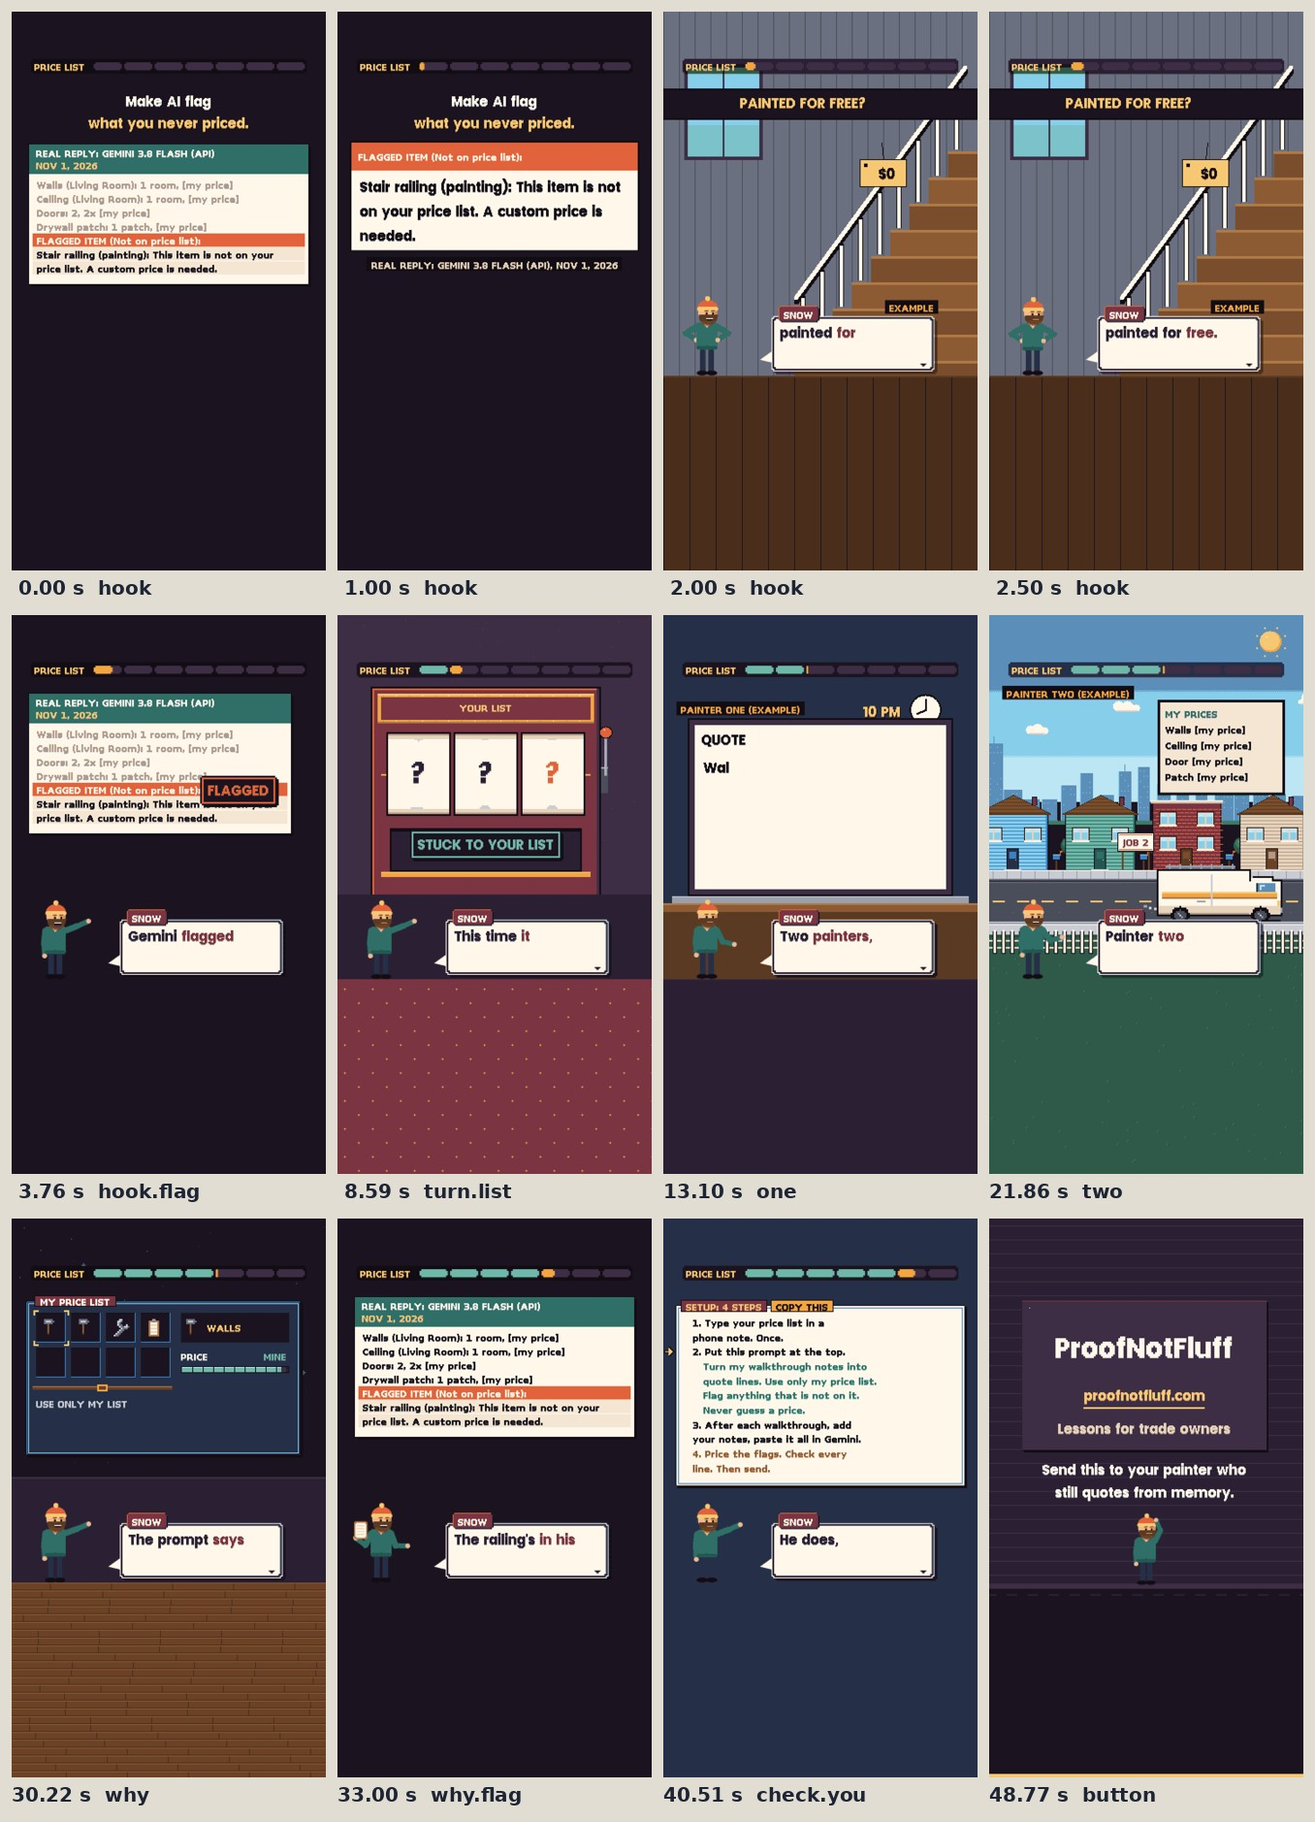
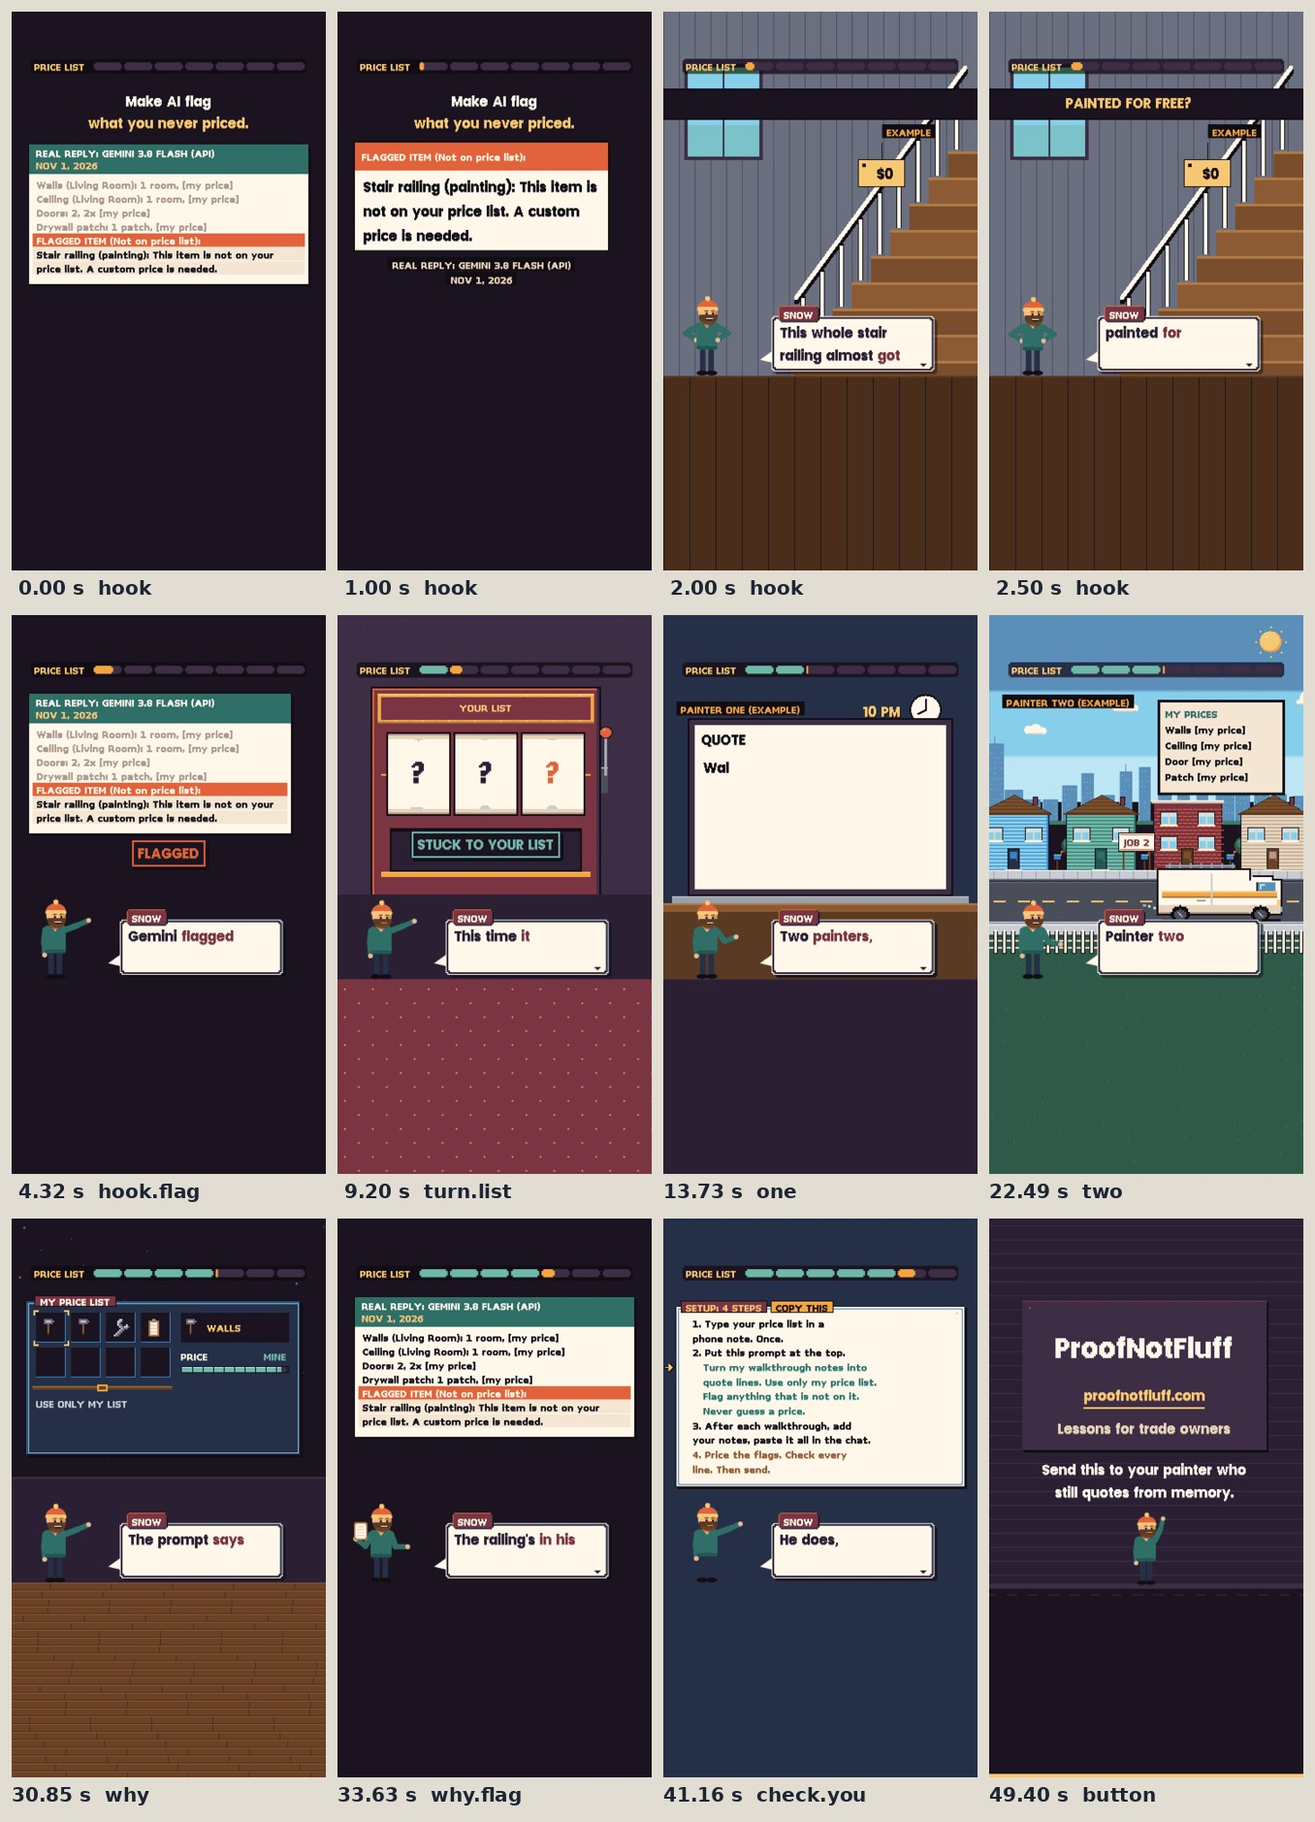
studio: price-list-quote re-roll takes 2, 4, 6 (Whisper flags: plainer words); close-up never frozen; IMPROVE 00a-4 verdict kick (in progress)
Claude-Session: https://claude.ai/code/session_01XMn4eLpC7YkvqSvTxShjqD

diff --git a/video/studio/videos/2026-11-16-price-list-quote/03_cues/cues.js b/video/studio/videos/2026-11-16-price-list-quote/03_cues/cues.js
@@ -1,1 +1,1 @@
-window.CUES = {"schema": "pnf.studio.cues.v1", "source": "whisper medium.en int8, re-spelled from script.md", "music": {"id": "rooms", "level": 0.16, "tune": "quest"}, "duration": 49.069, "cues": [{"id": "hook", "level": 0, "quote": "This stair railing almost", "sfx": "pop", "shift": 0.0, "pin": null, "text": "Three shots. Cover, frame one, no host: the real reply card, \"REAL REPLY: GEMINI 3.8 FLASH (API)\", \"NOV 1, 2026\", the four quote lines and the railing line lit red; plate \"Make AI flag / what you never priced.\". On \"railing\" cut in close on the flagged line, big. On \"painted\" cut to the living room: the stair railing, a brush, a price tag reading $0 swinging; \"PAINTED FOR FREE?\"; Snow comes in.", "t": 0.0, "word": 0, "end": 5.571}, {"id": "hook.flag", "level": 1, "quote": "Gemini flagged it instead", "sfx": "stamp", "shift": 0.0, "pin": null, "text": "Back to the reply card; FLAGGED stamps on the railing line; \"NO PRICE GUESSED\" under it.", "t": 3.16, "word": 8, "end": 5.571}, {"id": "turn", "level": 0, "quote": "You'd think AI makes", "sfx": "whoosh", "shift": 0.0, "pin": null, "text": "The slot machine: AI PRICES, reels spinning question marks.", "t": 5.571, "word": 14, "end": 12.5}, {"id": "turn.list", "level": 1, "quote": "This time it stuck", "sfx": "chime", "shift": 0.0, "pin": null, "text": "The reels stop left to right on L, I, S, T; label \"IT STUCK TO YOUR LIST\".", "t": 7.991, "word": 20, "end": 10.071}, {"id": "turn.loop", "level": 1, "quote": "So what happens to", "sfx": "blip", "shift": 0.0, "pin": null, "text": "\"What happens to / the railing?\" lands in the crown.", "t": 10.071, "word": 27, "end": 12.5}, {"id": "one", "level": 0, "quote": "Two painters, same walkthrough.", "sfx": "whoosh", "shift": 0.0, "pin": null, "text": "Painter one's kitchen table at night (EXAMPLE): clock 10 PM, a laptop, the quote typing from memory: Walls, Ceiling, Doors, Patch. No railing.", "t": 12.5, "word": 33, "end": 21.258}, {"id": "one.free", "level": 1, "quote": "He paints it free.", "sfx": "stamp", "shift": 0.0, "pin": null, "text": "FREE WORK stamps in red across the quote; Snow shrugs.", "t": 19.6, "word": 51, "end": 21.258}, {"id": "two", "level": 0, "quote": "Painter two keeps his", "sfx": "whoosh", "shift": 0.0, "pin": null, "text": "The street: painter two's van drives and parks in the driveway on \"driveway\"; in the sky a phone note, MY PRICES: Walls, Ceiling, Door, Patch, each [my price].", "t": 21.258, "word": 55, "end": 29.624}, {"id": "two.paste", "level": 1, "quote": "he pastes it, this", "sfx": "blip", "shift": 0.0, "pin": null, "text": "The note gets the prompt on top and NOTES under it; a PASTE INTO GEMINI arrow.", "t": 25.318, "word": 67, "end": 29.624}, {"id": "why", "level": 0, "quote": "The prompt says use", "sfx": "whoosh", "shift": 0.0, "pin": null, "text": "The tool belt (the metaphor): MY PRICE LIST, four items (Walls, Ceiling, Door, Patch), the cursor steps through them; footer USE ONLY MY LIST.", "t": 29.624, "word": 77, "end": 36.788}, {"id": "why.flag", "level": 1, "quote": "The railing's in his", "sfx": "whoosh", "shift": 0.0, "pin": null, "text": "Mosaic into the real reply card, word for word: four lines, then FLAGGED ITEM, the railing line lit red; FLAGGED stamps on \"flagged\".", "t": 32.404, "word": 84, "end": 36.788}, {"id": "check", "level": 0, "quote": "Gemini's free, and it", "sfx": "chime", "shift": 0.0, "pin": null, "text": "Gemini's own plan page, Free, $0/ month with a Google Account, tag \"gemini.google/subscriptions, Nov 1, 2026\"; then the setup card (ITEM GET, SETUP 4 STEPS) slides in: the four steps, held, the hand cursor stepping down.", "t": 36.788, "word": 96, "end": 42.829}, {"id": "check.you", "level": 1, "quote": "He does, and checks", "sfx": "tick", "shift": 0.0, "pin": null, "text": "Step 4 lights gold.", "t": 39.908, "word": 104, "end": 42.829}, {"id": "button", "level": 0, "quote": "Your list prices the", "sfx": "whoosh", "shift": 0.0, "pin": null, "text": "The boss: FREE WORK, full HP. Hits on \"list\" (MY LIST), \"job\" (QUOTE LINES), \"price\" (I PRICE IT); it breaks on \"railing\", PAID stamps. Then the end card with the send line.", "t": 42.829, "word": 110, "end": 49.069}]};
+window.CUES = {"schema": "pnf.studio.cues.v1", "source": "whisper medium.en int8, re-spelled from script.md", "music": {"id": "rooms", "level": 0.16, "tune": "quest"}, "duration": 49.696, "cues": [{"id": "hook", "level": 0, "quote": "This whole stair railing", "sfx": "pop", "shift": 0.0, "pin": null, "text": "Three shots. Cover, frame one, no host: the real reply card, \"REAL REPLY: GEMINI 3.8 FLASH (API)\", \"NOV 1, 2026\", the four quote lines and the railing line lit red; plate \"Make AI flag / what you never priced.\". On \"railing\" cut in close on the flagged line, big. On \"painted\" cut to the living room: the stair railing, a brush, a price tag reading $0 swinging; \"PAINTED FOR FREE?\"; Snow comes in.", "t": 0.0, "word": 0, "end": 6.198}, {"id": "hook.flag", "level": 1, "quote": "Gemini flagged it instead", "sfx": "stamp", "shift": 0.0, "pin": null, "text": "Back to the reply card; FLAGGED stamps on the railing line; \"NO PRICE GUESSED\" under it.", "t": 3.72, "word": 9, "end": 6.198}, {"id": "turn", "level": 0, "quote": "You'd think AI makes", "sfx": "whoosh", "shift": 0.0, "pin": null, "text": "The slot machine: AI PRICES, reels spinning question marks.", "t": 6.198, "word": 15, "end": 13.127}, {"id": "turn.list", "level": 1, "quote": "This time it stuck", "sfx": "chime", "shift": 0.0, "pin": null, "text": "The reels stop left to right on L, I, S, T; label \"IT STUCK TO YOUR LIST\".", "t": 8.598, "word": 21, "end": 10.698}, {"id": "turn.loop", "level": 1, "quote": "So what happens to", "sfx": "blip", "shift": 0.0, "pin": null, "text": "\"What happens to / the railing?\" lands in the crown.", "t": 10.698, "word": 28, "end": 13.127}, {"id": "one", "level": 0, "quote": "Two painters, same walkthrough.", "sfx": "whoosh", "shift": 0.0, "pin": null, "text": "Painter one's kitchen table at night (EXAMPLE): clock 10 PM, a laptop, the quote typing from memory: Walls, Ceiling, Doors, Patch. No railing.", "t": 13.127, "word": 34, "end": 21.885}, {"id": "one.free", "level": 1, "quote": "He paints it free.", "sfx": "stamp", "shift": 0.0, "pin": null, "text": "FREE WORK stamps in red across the quote; Snow shrugs.", "t": 20.207, "word": 52, "end": 21.885}, {"id": "two", "level": 0, "quote": "Painter two keeps his", "sfx": "whoosh", "shift": 0.0, "pin": null, "text": "The street: painter two's van drives and parks in the driveway on \"driveway\"; in the sky a phone note, MY PRICES: Walls, Ceiling, Door, Patch, each [my price].", "t": 21.885, "word": 56, "end": 30.251}, {"id": "two.paste", "level": 1, "quote": "he pastes it, this", "sfx": "blip", "shift": 0.0, "pin": null, "text": "The note gets the prompt on top and NOTES under it; a PASTE INTO GEMINI arrow.", "t": 25.945, "word": 68, "end": 30.251}, {"id": "why", "level": 0, "quote": "The prompt says use", "sfx": "whoosh", "shift": 0.0, "pin": null, "text": "The tool belt (the metaphor): MY PRICE LIST, four items (Walls, Ceiling, Door, Patch), the cursor steps through them; footer USE ONLY MY LIST.", "t": 30.251, "word": 78, "end": 37.415}, {"id": "why.flag", "level": 1, "quote": "The railing's in his", "sfx": "whoosh", "shift": 0.0, "pin": null, "text": "Mosaic into the real reply card, word for word: four lines, then FLAGGED ITEM, the railing line lit red; FLAGGED stamps on \"flagged\".", "t": 33.031, "word": 85, "end": 37.415}, {"id": "check", "level": 0, "quote": "Gemini's free, and it", "sfx": "chime", "shift": 0.0, "pin": null, "text": "Gemini's own plan page, Free, $0/ month with a Google Account, tag \"gemini.google/subscriptions, Nov 1, 2026\"; then the setup card (ITEM GET, SETUP 4 STEPS) slides in: the four steps, held, the hand cursor stepping down.", "t": 37.415, "word": 97, "end": 43.456}, {"id": "check.you", "level": 1, "quote": "He does, and checks", "sfx": "tick", "shift": 0.0, "pin": null, "text": "Step 4 lights gold.", "t": 40.555, "word": 105, "end": 43.456}, {"id": "button", "level": 0, "quote": "Your list prices the", "sfx": "whoosh", "shift": 0.0, "pin": null, "text": "The boss: FREE WORK, full HP. Hits on \"list\" (MY LIST), \"job\" (QUOTE LINES), \"price\" (I PRICE IT); it breaks on \"railing\", PAID stamps. Then the end card with the send line.", "t": 43.456, "word": 111, "end": 49.696}]};

diff --git a/video/studio/videos/2026-11-16-price-list-quote/04_scene/scene.js b/video/studio/videos/2026-11-16-price-list-quote/04_scene/scene.js
@@ -85,7 +85,7 @@ const FLAG = 'FLAGGED ITEM (Not on price list):';
 const RAIL = 'Stair railing (painting): This item is not on your price list. A custom price is needed.';
 const LABEL = ['REAL REPLY: GEMINI 3.8 FLASH (API)', 'NOV 1, 2026'];
 /* the prompt's rule line, word for word, and the setup the lesson teaches (facts.json setup.card) */
-const STEPS = [['1. Type your price list in a', 'phone note. Once.'], ['2. Put this prompt at the top.'], ['3. After each walkthrough, add', 'your notes, paste it all in Gemini.'], ['4. Price the flags. Check every', 'line. Then send.']];
+const STEPS = [['1. Type your price list in a', 'phone note. Once.'], ['2. Put this prompt at the top.'], ['3. After each walkthrough, add', 'your notes, paste it all in the chat.'], ['4. Price the flags. Check every', 'line. Then send.']];
 const RULE = ['Turn my walkthrough notes into', 'quote lines. Use only my price list.', 'Flag anything that is not on it.', 'Never guess a price.'];
 
 /* the reply card: cream, the label on a teal band, the four quote lines, then the flag and the railing line. */
@@ -144,7 +144,7 @@ window.SCENE = {
   hud: 'PRICE LIST',
   sendLine: 'Send this to your painter who still quotes from memory.',
   transitions: {turn: 'mosaic', one: 'fade4', two: 'dissolve', why: 'levelselect', check: 'dissolve', button: 'gameover'},
-  trauma: {'why.flag': 0.6},
+  trauma: {'one.free': 0.6},
   sections: {
     /* ---- hook: three shots. Cover (frame 0, no host): the real reply card, the railing lit red, the plate. On       */
     /* "railing" cut in close on the flagged line. On "painted" cut to our living room: the white stair railing and a  */
@@ -175,6 +175,9 @@ window.SCENE = {
         const x = 60, y = 450, w = 870, ls = k.wrap(RAIL, {size: 66}, w - 60);
         k.ctx.fillStyle = INK; k.ctx.fillRect(x - 6, y - 6, w + 12, 130 + ls.length * 84); k.ctx.fillStyle = CREAM; k.ctx.fillRect(x, y, w, 118 + ls.length * 84);
         k.ctx.fillStyle = RED; k.ctx.fillRect(x, y, w, 96); k.text(FLAG, x + 24, y + 30, {size: 39, color: CREAM});
+        /* never frozen (M1): a red marker sweeps under each line in turn while it is read, whole pixels */
+        const sp = clamp((T - tClose) / Math.max(0.6, tRoom - tClose - 0.1)) * ls.length;
+        ls.forEach((l, i) => { const lw = k.measure(l, {size: 66}), q = clamp(sp - i); if (q > 0) { k.ctx.fillStyle = RED; k.ctx.fillRect(x + 30, y + 120 + i * 84 + 66, Math.round(lw * q / 3) * 3, 9); } });
         ls.forEach((l, i) => k.text(l, x + 30, y + 120 + i * 84, {size: 66, color: INK}));
         tag(k, LABEL[0], 495, y + 150 + ls.length * 84, {align: 'center'}); tag(k, LABEL[1], 495, y + 200 + ls.length * 84, {align: 'center'});
         hookPlate(k);
@@ -266,7 +269,7 @@ window.SCENE = {
         const x = 90, y = 330, w = 900, h = Math.round(w * 650 / 1180);
         k.ctx.fillStyle = INK; k.ctx.fillRect(x - 9, y - 9, w + 18, h + 18);
         k.page(x, y, w, h, 'gemini-free', {scroll: 0});
-        tag(k, 'Plan page: gemini.google/subscriptions', 540, y + h + 30, {align: 'center'}); tag(k, 'read Nov 1, 2026', 540, y + h + 80, {align: 'center'});
+        tag(k, "Gemini's plan: gemini.google/subscriptions", 500, y + h + 30, {align: 'center'}); tag(k, 'read Nov 1, 2026', 540, y + h + 80, {align: 'center'});
         return host(k, 'point');
       }
       const lines = [];
@@ -278,7 +281,7 @@ window.SCENE = {
     /* ---- button: the boss FREE WORK (the native move, M7): hits on "list" (MY LIST), "job" (QUOTE LINES), "price"     */
     /* (I PRICE IT); it breaks on "railing" and PAID stamps.                                                            */
     button: (k, T) => {
-      const tL = wordT(k, 'button', /^list/i, 0.3), tJ = wordT(k, 'button', /^job/i, 1.1), tP = wordT(k, 'button', /^price/i, 2.2), tR = wordT(k, 'button', /^railing/i, 2.8);
+      const tL = wordT(k, 'button', /^list/i, 0.3), tJ = wordT(k, 'button', /^job/i, 1.1), tP = wordT(k, 'button', /^price$/i, 2.2), tR = wordT(k, 'button', /^railing/i, 2.8);
       k.sets.boss({name: 'FREE WORK', hp: 100, t0: k.S('button') - 0.3, menu: 'MOVES', hits: [{at: tL - 0.1, dmg: 50, label: 'MY LIST'}, {at: tP - 0.1, dmg: 50, label: 'I PRICE IT'}], defeatAt: tR, winText: 'PAID'});
       return host(k, T >= tR + 0.6 ? 'wave' : 'point');
     },

diff --git a/video/studio/videos/2026-11-16-price-list-quote/02_transcript/mouth.js b/video/studio/videos/2026-11-16-price-list-quote/02_transcript/mouth.js
@@ -1,1 +1,1 @@
[2 lines of base64/hex data omitted]

diff --git a/video/studio/_runtime/player.js b/video/studio/_runtime/player.js
@@ -182,6 +182,12 @@
     for (const e of shakes) { if (e.t > T) break; tr = Math.min(1, Math.max(0, tr - 3 * (e.t - tl)) + e.a); tl = e.t; }
     return Math.max(0, tr - 3 * (T - tl));
   }
+  // the 3-2-1 verdict kick: 8 frames after the big stamp's freeze, offsets in low-res pixels (x, y); null outside them
+  const KICK = [[3, 0], [-3, 0], [0, 2], [0, -2], [2, 0], [-1, 0], [0, 1], [0, 0]];
+  function verdictKick(T) {
+    for (const e of shakes) { if (!e.big) continue; const f = Math.floor((T - e.t) * FPS + 0.005); if (f >= 0 && f < KICK.length) return KICK[f]; }
+    return null;
+  }
   // the scene's clock: it stops for 3 frames when a stamp lands (the hit-stop) and shivers 1 low-res pixel
   function sceneClock(T, sec) {
     for (const c of stamps) { const f = (T - c.t) * FPS + 0.005; if (c.t >= sec.t && f >= 0 && f < FREEZE) return {Ts: c.t, shiver: Math.floor(f) % 2 ? -1 : 1}; }
@@ -361,6 +367,9 @@
       // the trauma shake: smooth noise, whole low-res pixels, at most 3
       const tr = trauma(T), amp = 3 * U * tr * tr;
       if (amp > 0) { sx = vnoise(T * 14, 1) * amp; sy = vnoise(T * 14, 2) * amp; }
+      // the verdict kick (IMPROVE 00a-4, M4): the stamp named in SCENE.trauma shakes on a fixed 3-2-1 low-res pixel
+      // pattern over 8 frames (right, left, up, down, getting smaller), the console way, instead of the noise shake
+      const vk = verdictKick(T); if (vk) { sx = vk[0] * U; sy = vk[1] * U; }
       sx += shiver * U;
     }
     // the camera, its position on whole low-res pixels so the grid never swims
@@ -423,7 +432,7 @@
     if (M && M.levels) env.mouth = (t) => { const i = Math.floor(t * (M.fps || FPS) + 0.005); return i >= 0 && i < M.levels.length ? +M.levels[i] : 0; };
     stamps = cues.filter((c) => c.sfx === 'stamp').sort((a, b) => a.t - b.t);
     let lastShake = -1e9; const big = window.SCENE.trauma || {};
-    stamps.forEach((c) => { if (c.t - lastShake >= SHAKE_GAP) { shakes.push({t: c.t + FREEZE / FPS, a: big[c.id] || 0.5}); lastShake = c.t; } });
+    stamps.forEach((c) => { if (c.t - lastShake >= SHAKE_GAP) { shakes.push({t: c.t + FREEZE / FPS, a: big[c.id] || 0.5, big: c.id in big}); lastShake = c.t; } });
     const c = document.getElementById('c'); c.width = W; c.height = H;
     if (look.scale !== 1) { lowCanvas = document.createElement('canvas'); lowCanvas.width = Math.round(W * look.scale); lowCanvas.height = Math.round(H * look.scale); }
     for (const n of (window.SCENE.images || [])) {
@@ -436,7 +445,7 @@
     if (words.length) END_T = words[words.length - 1].end + 0.1;   // after the fonts load, so the line breaks match what is drawn; 0.1 s after the last word, so the card is up for the last 3 s (style board, Oct 29)
     window.DURATION = window.CUES.duration;
     survey = runSurvey();
-    window.STUDIO = {env, survey, trauma, look, camera, phrases};   // for checks: blinks, pose runs, rooms, the shake, the dialog pages
+    window.STUDIO = {env, survey, trauma, verdictKick, look, camera, phrases};   // for checks: blinks, pose runs, rooms, the shake, the dialog pages
     window.READY = true;
     if (q.get('play')) { const t0 = performance.now(); const tick = () => { const t = (performance.now() - t0) / 1000; drawAt(t % window.DURATION); requestAnimationFrame(tick); }; tick(); }
     else drawAt(Number(q.get('t') || 0));

diff --git a/video/studio/videos/2026-11-16-price-list-quote/04_scene/data.js b/video/studio/videos/2026-11-16-price-list-quote/04_scene/data.js
@@ -1,1 +1,1 @@
[2 lines of base64/hex data omitted]

diff --git a/video/studio/videos/2026-11-16-price-list-quote/03_cues/cues.md b/video/studio/videos/2026-11-16-price-list-quote/03_cues/cues.md
@@ -9,7 +9,7 @@ Back to the reply card; FLAGGED stamps on the railing line; "NO PRICE GUESSED" u
 
 ## turn "You'd think AI makes" [sfx: whoosh]
 The slot machine: AI PRICES, reels spinning question marks.
-## turn.list "This time it stuck" [sfx: chime]
+## turn.list "This time the AI" [sfx: chime]
 The reels stop left to right on L, I, S, T; label "IT STUCK TO YOUR LIST".
 ## turn.loop "So what happens to" [sfx: blip]
 "What happens to / the railing?" lands in the crown.
@@ -21,7 +21,7 @@ FREE WORK stamps in red across the quote; Snow shrugs.
 
 ## two "Painter two keeps his" [sfx: whoosh]
 The street: painter two's van drives and parks in the driveway on "driveway"; in the sky a phone note, MY PRICES: Walls, Ceiling, Door, Patch, each [my price].
-## two.paste "he pastes it, this" [sfx: blip]
+## two.paste "he pastes the list," [sfx: blip]
 The note gets the prompt on top and NOTES under it; a PASTE INTO GEMINI arrow.
 
 ## why "The prompt says use" [sfx: whoosh]
@@ -29,7 +29,7 @@ The tool belt (the metaphor): MY PRICE LIST, four items (Walls, Ceiling, Door, P
 ## why.flag "The railing's in his" [sfx: whoosh]
 Mosaic into the real reply card, word for word: four lines, then FLAGGED ITEM, the railing line lit red; FLAGGED stamps on "flagged".
 
-## check "Gemini's free, and it" [sfx: chime]
+## check "Gemini is free, and" [sfx: chime]
 Gemini's own plan page, Free, $0/ month with a Google Account, tag "gemini.google/subscriptions, Nov 1, 2026"; then the setup card (ITEM GET, SETUP 4 STEPS) slides in: the four steps, held, the hand cursor stepping down.
 ## check.you "He does, and checks" [sfx: tick]
 Step 4 lights gold.

diff --git a/video/studio/videos/2026-11-16-price-list-quote/01_voice/script.md b/video/studio/videos/2026-11-16-price-list-quote/01_voice/script.md
@@ -2,14 +2,14 @@
 
 This whole stair railing almost got painted for free. Gemini flagged it instead of guessing.
 
-You'd think AI makes prices up. This time it stuck to your list. So what happens to the railing?
+You'd think AI makes prices up. This time the AI stuck to your list. So what happens to the railing?
 
 Two painters, same walkthrough. Painter one quotes at ten pm from memory, and the railing never makes it. He paints it free.
 
-Painter two keeps his prices in a phone note. In the driveway, he pastes it, this prompt and his notes into Gemini.
+Painter two keeps his prices in a phone note. In the driveway, he pastes the list, his notes and this prompt into Gemini.
 
 [matter-of-fact] The prompt says use only his list. The railing's in his notes, not his list, so Gemini flagged it.
 
-Gemini's free, and it didn't price the railing. He does, and checks every line.
+Gemini is free, and it didn't price the railing. He does, and checks every line.
 
 [confident] Your list prices the job. You price the railing.
